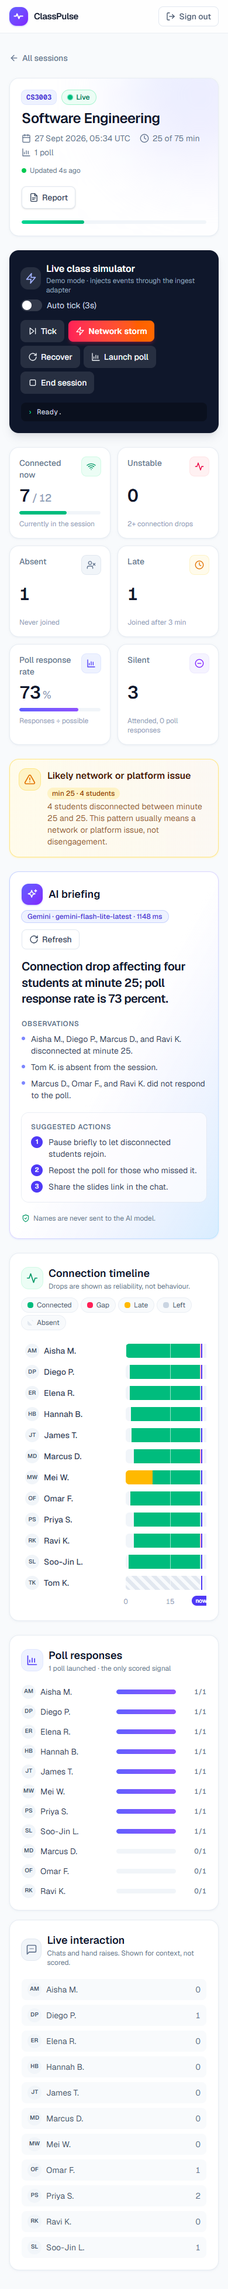
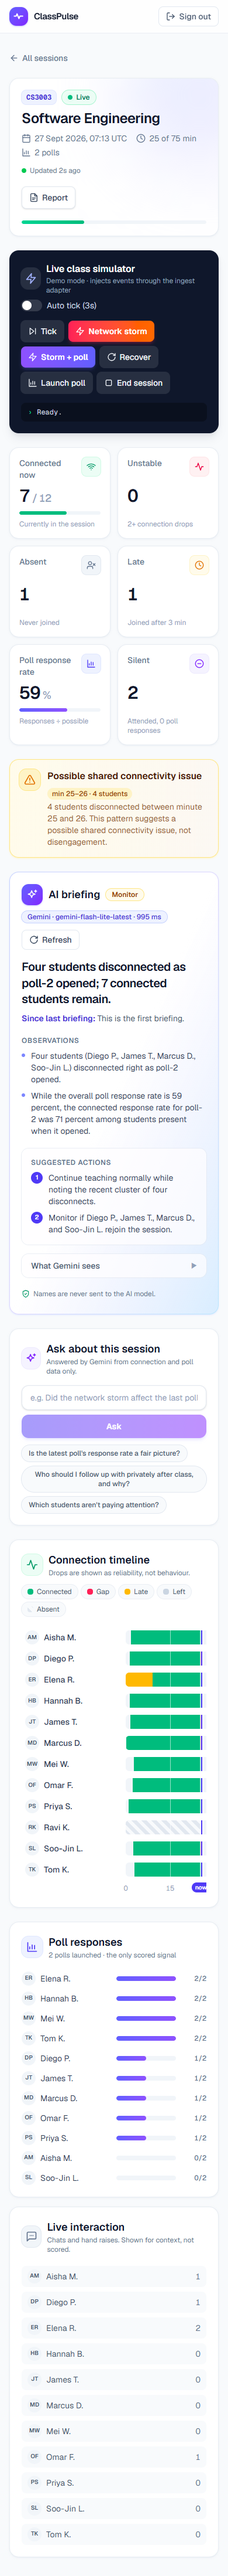
docs: retake README screenshots for the Gemini judgement UI
Hero is now the live Storm + poll dashboard ("Act now", 59% vs 71%).
Adds "What Gemini sees", Ask grounded-answer and declined-by-design shots;
refreshes report, landing, sessions and mobile; drops the old ended
dashboard image. All from seeded demo data.

Changed region(s): [[0.0308, 0.0, 0.9846, 0.9995], [0.8615, 0.8746, 0.8923, 0.9995], [0.8615, 0.2811, 0.8923, 0.3123]]

diff --git a/README.md b/README.md
@@ -12,7 +12,9 @@ It uses only metadata the meeting platform already records: join/leave events an
 
 **Live demo:** https://class-pulse-hack-nite.vercel.app
 
-![ClassPulse dashboard: stat cards, reliability alert, Gemini AI briefing and connection timeline](docs/screenshots/dashboard.png)
+![Live session right after "Storm + poll": four students drop as poll 2 opens, the connectivity alert fires, and the Gemini briefing switches to "Act now", explaining that the 59% overall poll rate understates the 71% rate among connected students](docs/screenshots/live-network-storm.png)
+
+<sub>Live demo, seconds after **Storm + poll**: four students drop just as poll 2 opens. Deterministic code raises the connectivity alert. Gemini supplies the judgement: the overall 59% poll rate understates the 71% rate among students who could answer. It says what changed since its last briefing and puts a 60-second action first.</sub>
 
 ---
 
@@ -20,14 +22,29 @@ It uses only metadata the meeting platform already records: join/leave events an
 
 All screenshots use the seeded demo data (12 fictional students in CS3003).
 
-| Live demo: network storm | Post-session report |
-|---|---|
-| ![Live session during a simulated network storm: the reliability alert fires and the Gemini briefing updates](docs/screenshots/live-network-storm.png) | ![Printable report with the same metrics, the briefing generated once, and an Export PDF button](docs/screenshots/report.png) |
-| Four students drop at once. ClassPulse flags a possible shared connectivity issue, not disengagement, and the AI briefing refreshes for the new alert. | A frozen, printable view of the same metrics. **Export PDF** keeps the timeline colours and never splits a row across pages. |
+### What Gemini sees
 
-| Landing page | Session list |
+![AI briefing with the "What Gemini sees" panel open: the pseudonymised input on the left (S-labels, aggregates, poll context) and Gemini's validated output on the right, before names are restored server-side](docs/screenshots/what-gemini-sees.png)
+
+The dashboard shows exactly what crossed the privacy boundary: the pseudonymised payload sent to Gemini (`S2`, `S5`, …, never names), and its schema-validated output before names are restored on the server.
+
+### Ask about this session
+
+| Grounded answer | Declined by design |
 |---|---|
-| ![Landing page with the headline "Know who's really there. Without a camera." and three privacy pillars](docs/screenshots/landing.png) | ![Session list with an ended and a live CS3003 session](docs/screenshots/sessions.png) |
+| ![Ask panel answering "Is the latest poll's response rate a fair picture?" by comparing the connected response rate with the overall rate, with evidence chips naming the input fields used](docs/screenshots/ask-answer.png) | ![Ask panel declining "Which students aren't paying attention?" with a "Declined by design" badge and an explanation of what ClassPulse deliberately doesn't measure](docs/screenshots/ask-declined.png) |
+| Answers cite the input fields they used as evidence. | Questions about attention, emotion, motivation, effort or cheating are declined, because ClassPulse deliberately doesn't measure them. |
+
+### Report, landing page and session list
+
+| Post-session report | Landing page |
+|---|---|
+| ![Printable report with the same metrics, the Gemini briefing generated once, and an Export PDF button](docs/screenshots/report.png) | ![Landing page with the headline "Know who's really there. Without a camera." and three privacy pillars](docs/screenshots/landing.png) |
+| A frozen, printable view of the same metrics. **Export PDF** keeps the timeline colours and never splits a row across pages. | |
+
+| Session list |
+|---|
+| ![Session list with an ended and a live CS3003 session](docs/screenshots/sessions.png) |
 
 <p align="center">
   <img src="docs/screenshots/mobile-dashboard.png" alt="Dashboard at 390px phone width: stat cards two per row, timeline scrolls inside its card" width="260"><br>
